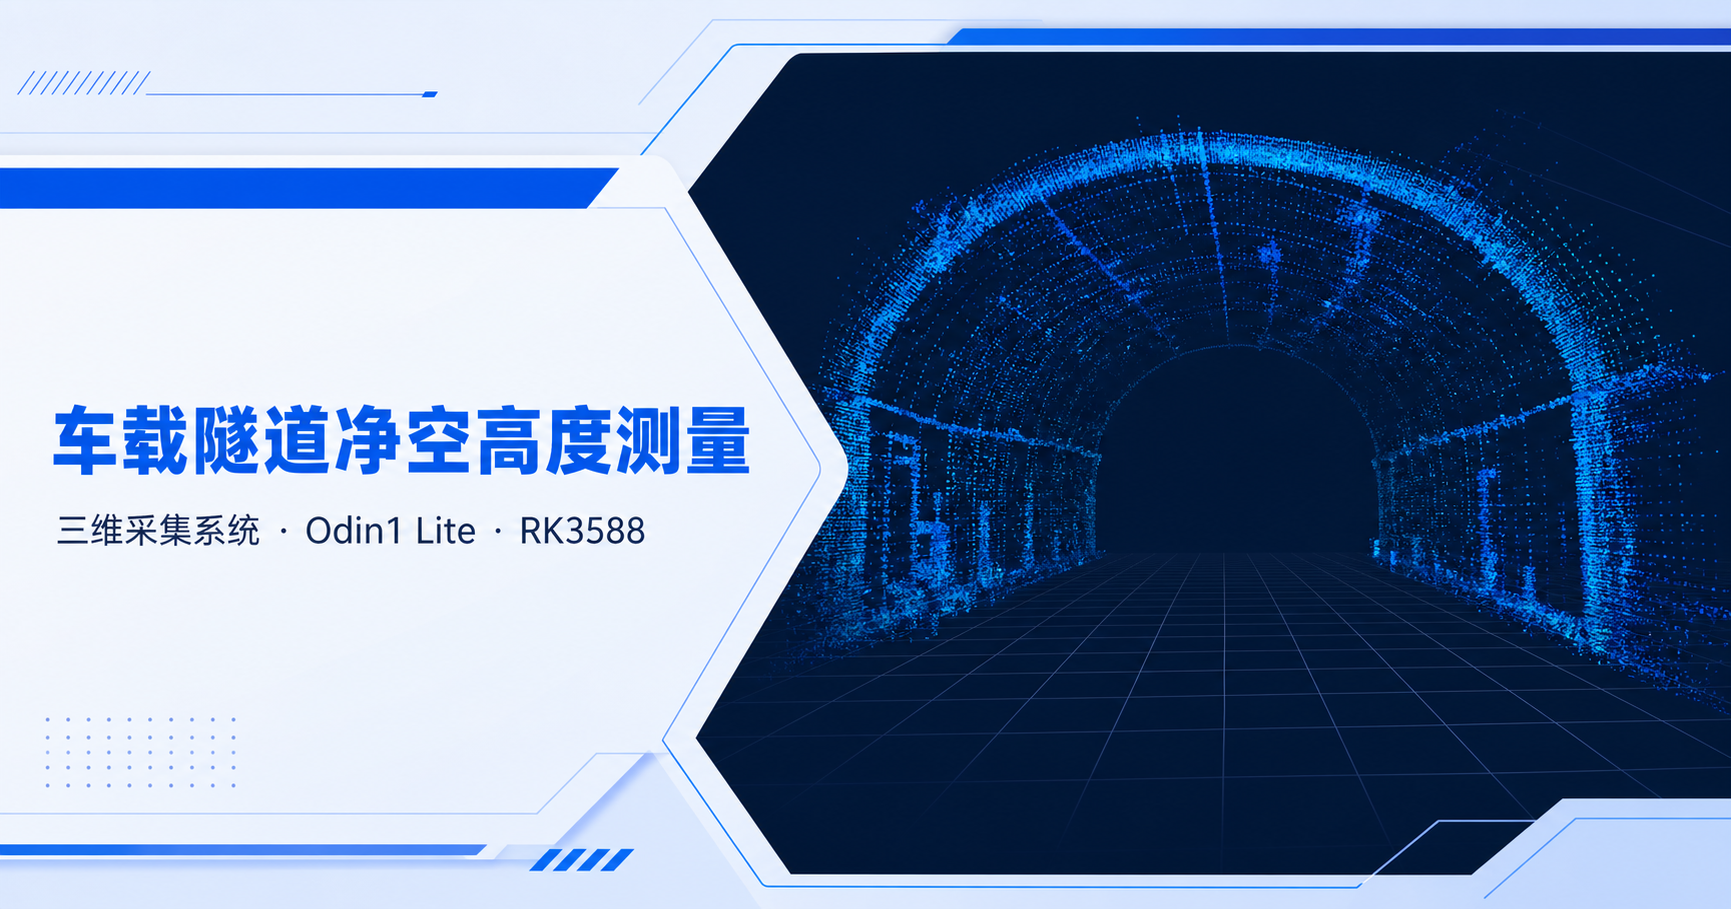
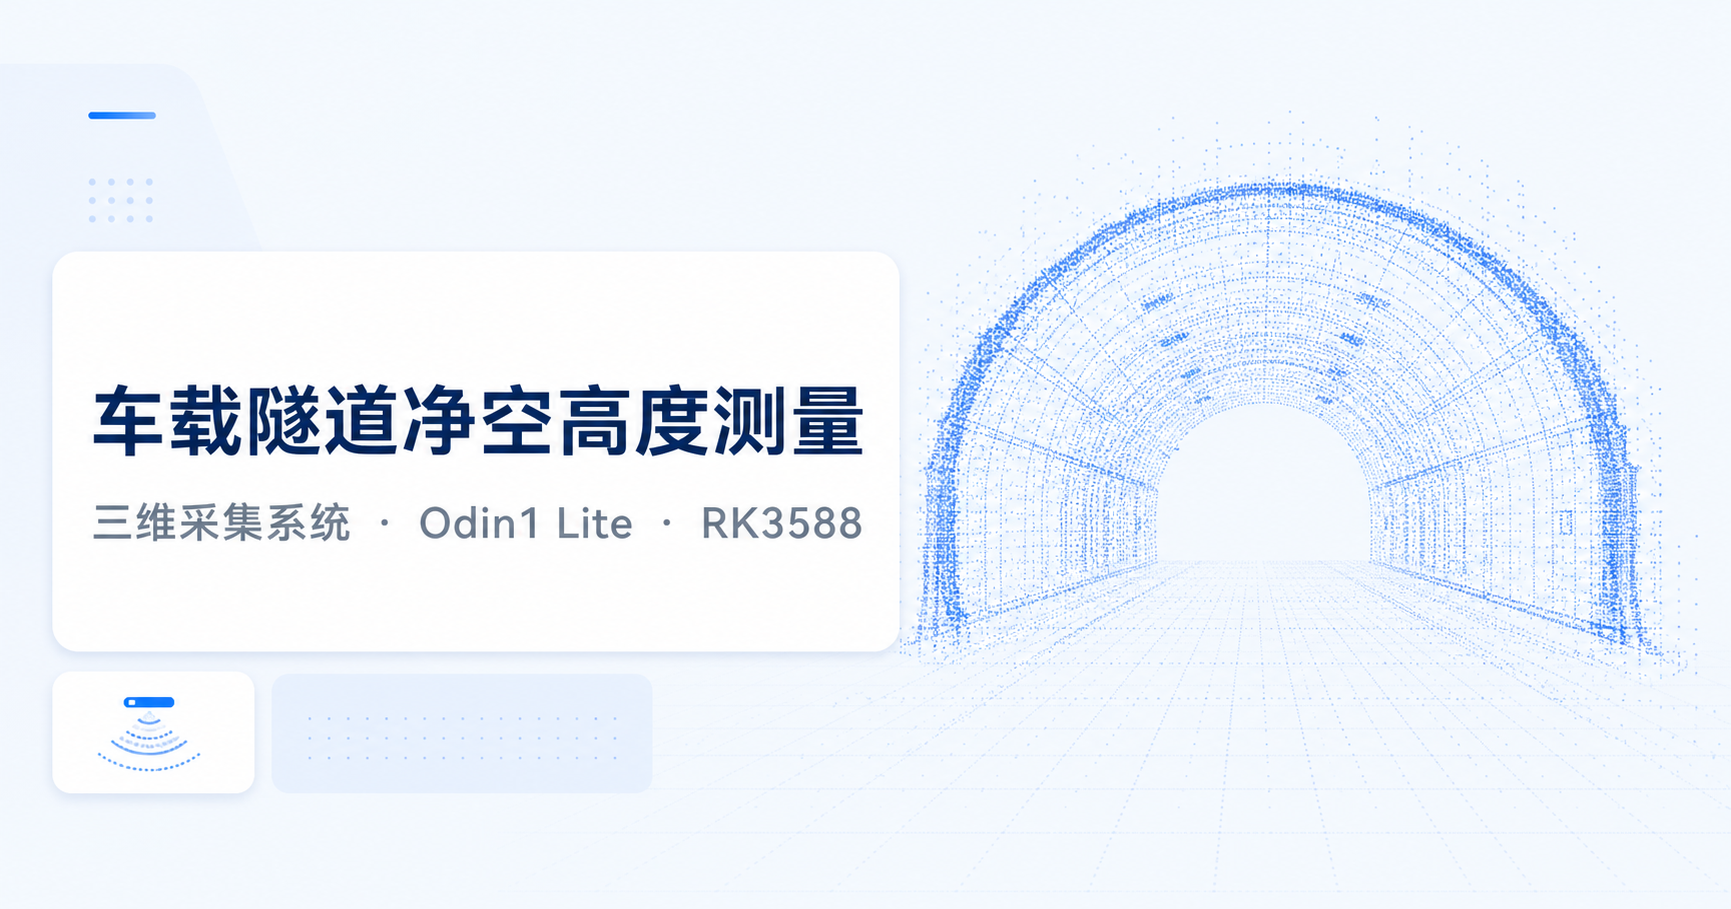
简化采集首页并优化状态交互

diff --git a/frontend/app/globals.css b/frontend/app/globals.css
@@ -190,6 +190,30 @@ main { min-width: 0; }
 
 .page-content { padding: 20px 24px 34px; }
 .page-stack { display: grid; gap: 15px; }
+.dashboard-page { gap: 12px; }
+
+.capture-state-bar {
+  display: grid;
+  grid-template-columns: minmax(330px, 1fr) auto minmax(250px, .7fr);
+  align-items: center;
+  gap: 18px;
+  min-height: 76px;
+  padding: 13px 16px;
+  border: 1px solid #d9e5f8;
+  border-radius: 14px;
+  background: linear-gradient(110deg, #fff 0%, #f5f9ff 100%);
+  box-shadow: 0 8px 24px rgba(34, 56, 92, .045);
+}
+.capture-state-bar__main { display: flex; align-items: center; gap: 12px; min-width: 0; }
+.capture-state-icon { display: grid; flex: 0 0 40px; width: 40px; height: 40px; place-items: center; color: var(--primary); border-radius: 11px; background: var(--primary-light); font-size: 13px; font-weight: 800; }
+.capture-state-bar__main > div { display: grid; gap: 2px; min-width: 0; }
+.capture-state-bar__main span { color: var(--muted); font-size: 11px; }
+.capture-state-bar__main strong { overflow: hidden; font-size: 15px; text-overflow: ellipsis; white-space: nowrap; }
+.capture-state-bar__main small { color: #8793a5; font-size: 11px; }
+.capture-state-bar__signals { display: flex; align-items: center; gap: 7px; }
+.capture-state-bar__signals span { display: inline-flex; align-items: center; gap: 6px; padding: 7px 9px; color: #68768a; border: 1px solid var(--line); border-radius: 999px; background: #fff; font-size: 11px; font-weight: 700; white-space: nowrap; }
+.capture-state-bar__signals i { width: 6px; height: 6px; border-radius: 50%; background: #aab4c3; }
+.capture-state-bar > p { margin: 0; color: #64748b; font-size: 11px; line-height: 1.55; }
 
 .metric-grid {
   display: grid;
@@ -210,6 +234,12 @@ main { min-width: 0; }
   padding: 17px 18px;
   overflow: hidden;
 }
+
+.dashboard-page .metric-grid { gap: 12px; }
+.dashboard-page .metric-card { min-height: 108px; padding: 14px 16px; box-shadow: 0 8px 24px rgba(34, 56, 92, .045); }
+.dashboard-page .metric-card > strong { margin-top: 8px; font-size: 26px; }
+.dashboard-page .metric-card > .metric-card__text-value { font-size: 20px; }
+.dashboard-page .metric-card > p { margin-top: 8px; font-size: 11px; }
 
 .metric-card--primary::after {
   position: absolute;
@@ -256,6 +286,7 @@ input:focus, select:focus { border-color: #79a9ff; box-shadow: 0 0 0 3px rgba(23
 .button-grid { display: grid; grid-template-columns: 1fr 1fr; gap: 7px; margin-top: 11px; }
 .button { min-height: 38px; padding: 9px 14px; color: #44536a; border: 0; border-radius: 9px; background: #edf2f8; font-size: 11px; font-weight: 700; transition: .15s ease; }
 .button:hover { transform: translateY(-1px); filter: brightness(.98); }
+.button:disabled { cursor: not-allowed; opacity: .45; box-shadow: none; transform: none; filter: none; }
 button:focus-visible {
   outline: 3px solid rgba(23, 105, 238, .2);
   outline-offset: 2px;
@@ -336,13 +367,13 @@ th { color: #7f8b9e; background: #fafbfd; font-weight: 600; white-space: nowrap;
 
 .dashboard-layout {
   display: grid;
-  grid-template-columns: minmax(0, 1.5fr) minmax(355px, .64fr);
+  grid-template-columns: minmax(0, 1.68fr) minmax(365px, .72fr);
   align-items: start;
-  gap: 15px;
+  gap: 12px;
 }
 
-.dashboard-main, .dashboard-side { display: grid; gap: 15px; }
-.dashboard-layout .chart { height: 207px; }
+.dashboard-main, .dashboard-side { display: grid; gap: 12px; }
+.dashboard-layout .chart { height: 184px; }
 
 .current-task { overflow: hidden; }
 .task-identity { display: grid; grid-template-columns: 1fr 1fr; gap: 1px; overflow: hidden; border: 1px solid var(--line-soft); border-radius: 10px; background: var(--line-soft); }
@@ -355,8 +386,24 @@ th { color: #7f8b9e; background: #fafbfd; font-weight: 600; white-space: nowrap;
 .progress-track { height: 5px; margin-top: 7px; overflow: hidden; border-radius: 5px; background: #edf1f6; }
 .progress-track i { display: block; width: 0; height: 100%; background: var(--primary); }
 
+.tunnel-markers { display: grid; gap: 9px; margin-top: 12px; padding-top: 12px; border-top: 1px solid var(--line-soft); }
+.tunnel-markers > div:first-child { display: grid; gap: 3px; }
+.tunnel-markers strong { font-size: 12px; }
+.tunnel-markers small { color: var(--muted); font-size: 10px; }
+.tunnel-markers > div:last-child { display: grid; grid-template-columns: 1fr 1fr; gap: 8px; }
+.tunnel-markers .button { min-height: 34px; padding: 7px 10px; font-size: 11px; }
+
 .control-panel .form-grid { gap: 8px; }
 .button-grid--control { margin-top: 10px; }
+.preflight-list { display: grid; overflow: hidden; border: 1px solid var(--line-soft); border-radius: 10px; }
+.preflight-list > div { display: flex; align-items: center; justify-content: space-between; min-height: 35px; padding: 7px 10px; border-bottom: 1px solid var(--line-soft); font-size: 11px; }
+.preflight-list > div:last-child { border-bottom: 0; }
+.preflight-list span { color: #64748b; }
+.preflight-list strong { color: #8a96a7; font-size: 11px; }
+.config-disclosure { margin-top: 10px; border: 1px solid var(--line-soft); border-radius: 9px; background: #fafbfd; }
+.config-disclosure summary { display: flex; align-items: center; justify-content: space-between; gap: 10px; padding: 10px; color: #526177; cursor: pointer; font-size: 11px; font-weight: 700; list-style-position: inside; }
+.config-disclosure summary span { margin-left: auto; color: #8a96a7; font-size: 10px; font-weight: 500; }
+.config-disclosure .form-grid { padding: 0 10px 10px; }
 .switch-row {
   position: relative;
   display: flex;
@@ -383,6 +430,9 @@ th { color: #7f8b9e; background: #fafbfd; font-weight: 600; white-space: nowrap;
 .device-grid > div > span:first-child { display: flex; align-items: center; gap: 6px; overflow: hidden; white-space: nowrap; }
 .device-grid > div > span > i { display: grid; flex: 0 0 22px; width: 22px; height: 22px; place-items: center; color: var(--primary); border-radius: 6px; background: var(--primary-light); font-size: 7px; font-style: normal; font-weight: 800; }
 .device-grid strong { font-size: 8px; }
+.dashboard-side .device-grid { grid-template-columns: 1fr; }
+.dashboard-side .device-grid > div { min-height: 39px; padding: 7px 9px; font-size: 11px; }
+.dashboard-side .device-grid strong { font-size: 11px; }
 
 .alert-grid { display: grid; grid-template-columns: minmax(0, 1.5fr) minmax(355px, .64fr); gap: 15px; }
 .alert-empty { display: flex; align-items: center; gap: 11px; min-height: 67px; padding: 12px; border: 1px dashed #cfe8dc; border-radius: 11px; background: #f8fcfa; }
@@ -394,6 +444,8 @@ th { color: #7f8b9e; background: #fafbfd; font-weight: 600; white-space: nowrap;
 .quick-status > div:last-child > span { display: grid; gap: 7px; padding: 10px; color: var(--muted); border-right: 1px solid var(--line-soft); font-size: 8px; }
 .quick-status > div:last-child > span:last-child { border-right: 0; }
 .quick-status strong { color: var(--text); font-size: 9px; }
+.dashboard-page .alert-empty { border-color: #dce3ec; background: #fafbfd; }
+.dashboard-page .alert-empty > span { color: #7e8b9d; background: #edf1f6; }
 
 .task-overview { display: grid; grid-template-columns: repeat(3, 1fr); gap: 14px; }
 .task-overview > article { display: flex; align-items: center; gap: 13px; min-height: 82px; padding: 15px 17px; border: 1px solid var(--line); border-radius: 15px; background: #fff; box-shadow: var(--shadow); }
@@ -437,20 +489,20 @@ th { color: #7f8b9e; background: #fafbfd; font-weight: 600; white-space: nowrap;
 .cloud-toolbar p { margin: 5px 0 0; color: var(--muted); font-size: 10px; }
 .segmented--small button { min-height: 32px; padding: 6px 10px; }
 .segmented button:disabled { cursor: not-allowed; opacity: .48; }
-.cloud-stage { position: relative; min-height: 704px; overflow: hidden; border: 1px solid #d9e1ec; border-radius: 12px; background: radial-gradient(circle at 50% 45%, #263750, #172235 65%, #111a29); perspective: 650px; }
-.dashboard-cloud-stage { min-height: 428px; }
+.cloud-stage { position: relative; min-height: 704px; overflow: hidden; border: 1px solid #dce4ef; border-radius: 12px; background: radial-gradient(circle at 50% 45%, #fff, #f3f7fc 72%); perspective: 650px; }
+.dashboard-cloud-stage { min-height: 356px; }
 .cloud-canvas-host, .cloud-canvas { position: absolute; inset: 0; width: 100%; height: 100%; }
 .cloud-canvas { display: block; touch-action: none; }
-.cloud-live-badge { position: absolute; z-index: 3; top: 14px; left: 14px; display: flex; align-items: center; gap: 6px; padding: 7px 10px; color: #a9bad0; border: 1px solid rgba(157,182,214,.25); border-radius: 999px; background: rgba(17,27,43,.72); backdrop-filter: blur(8px); font-size: 9px; font-weight: 700; }
+.cloud-live-badge { position: absolute; z-index: 3; top: 14px; left: 14px; display: flex; align-items: center; gap: 6px; padding: 7px 10px; color: #6f7d91; border: 1px solid #dce4ef; border-radius: 999px; background: rgba(255,255,255,.9); backdrop-filter: blur(8px); font-size: 10px; font-weight: 700; box-shadow: 0 4px 12px rgba(44,63,92,.06); }
 .cloud-live-badge i { width: 6px; height: 6px; border-radius: 50%; background: currentColor; }
-.cloud-live-badge--streaming { color: #62dfa9; }
-.cloud-live-badge--degraded { color: #f2c56e; }
-.cloud-live-badge--ros_unavailable { color: #ef7f8e; }
-.cloud-overlay-status { position: absolute; z-index: 2; top: 50%; left: 50%; display: grid; min-width: 250px; justify-items: center; gap: 7px; padding: 18px 22px; color: #a9b9ce; border: 1px solid rgba(135,164,200,.2); border-radius: 13px; background: rgba(17,27,43,.82); text-align: center; transform: translate(-50%, -50%); backdrop-filter: blur(8px); }
-.cloud-overlay-status > span { display: grid; width: 40px; height: 40px; place-items: center; color: #86b7ff; border-radius: 12px; background: rgba(75,139,225,.16); font-size: 23px; }
-.cloud-overlay-status strong { color: #e4edf8; font-size: 12px; }
-.cloud-overlay-status small { color: #93a5bc; font-size: 10px; }
-.cloud-stage__footer { position: absolute; z-index: 3; right: 14px; bottom: 12px; left: 14px; display: flex; justify-content: space-between; gap: 14px; padding: 7px 9px; color: #a9bad0; border: 1px solid rgba(157,182,214,.2); border-radius: 8px; background: rgba(17,27,43,.68); backdrop-filter: blur(8px); font-size: 9px; pointer-events: none; }
+.cloud-live-badge--streaming { color: var(--green); }
+.cloud-live-badge--degraded { color: var(--orange); }
+.cloud-live-badge--ros_unavailable { color: var(--red); }
+.cloud-overlay-status { position: absolute; z-index: 2; top: 50%; left: 50%; display: grid; min-width: 250px; justify-items: center; gap: 7px; padding: 18px 22px; color: #708096; border: 1px solid #dce4ef; border-radius: 13px; background: rgba(255,255,255,.92); text-align: center; transform: translate(-50%, -50%); backdrop-filter: blur(8px); box-shadow: 0 12px 30px rgba(44,63,92,.08); }
+.cloud-overlay-status > span { display: grid; width: 40px; height: 40px; place-items: center; color: var(--primary); border-radius: 12px; background: var(--primary-light); font-size: 23px; }
+.cloud-overlay-status strong { color: #405069; font-size: 12px; }
+.cloud-overlay-status small { color: #8290a3; font-size: 10px; }
+.cloud-stage__footer { position: absolute; z-index: 3; right: 14px; bottom: 12px; left: 14px; display: flex; justify-content: space-between; gap: 14px; padding: 7px 9px; color: #66758a; border: 1px solid #dce4ef; border-radius: 8px; background: rgba(255,255,255,.88); backdrop-filter: blur(8px); font-size: 10px; pointer-events: none; }
 .preview-side { display: grid; gap: 15px; }
 .stat-grid { display: grid; grid-template-columns: 1fr 1fr; gap: 8px; }
 .stat-grid > div { display: grid; gap: 5px; min-height: 69px; padding: 10px; border: 1px solid var(--line-soft); border-radius: 9px; background: #fbfcfe; }
@@ -578,11 +630,13 @@ table {
 
 @media (max-width: 1180px) {
   .metric-grid { grid-template-columns: repeat(2, 1fr); }
+  .capture-state-bar { grid-template-columns: 1fr auto; }
+  .capture-state-bar > p { grid-column: 1 / -1; }
   .dashboard-grid, .preview-grid, .report-grid,
   .dashboard-layout, .alert-grid, .preview-layout, .report-layout { grid-template-columns: 1fr; }
   .task-page-grid { grid-template-columns: 1fr; }
   .cloud-stage { min-height: 570px; }
-  .dashboard-cloud-stage { min-height: 428px; }
+  .dashboard-cloud-stage { min-height: 380px; }
 }
 
 @media (max-width: 760px) {
@@ -597,6 +651,9 @@ table {
   .topbar { align-items: flex-start; min-height: auto; padding: 18px; }
   .topbar__right { display: none; }
   .page-content { padding: 14px; }
+  .capture-state-bar { grid-template-columns: 1fr; gap: 11px; padding: 13px; }
+  .capture-state-bar__signals { flex-wrap: wrap; }
+  .capture-state-bar > p { grid-column: auto; }
   .metric-grid, .form-grid, .task-overview, .task-form, .playback-summary { grid-template-columns: 1fr; }
   .playback-filter, .report-filter { grid-template-columns: 1fr; }
   .task-form fieldset { grid-template-columns: 1fr; }
@@ -606,6 +663,7 @@ table {
   .cloud-toolbar { grid-template-columns: 1fr; }
   .cloud-toolbar .panel-tag { position: absolute; top: 17px; right: 17px; }
   .cloud-stage { min-height: 450px; }
+  .dashboard-cloud-stage { min-height: 340px; }
   .cloud-stage__footer { align-items: flex-start; flex-direction: column; gap: 5px; }
   .data-actions { grid-template-columns: 1fr; }
   .report-content-options { grid-template-columns: 1fr 1fr; }

diff --git a/frontend/app/page.tsx b/frontend/app/page.tsx
@@ -153,12 +153,29 @@ function Dashboard() {
   ];
 
   return (
-    <div className="page-stack">
+    <div className="page-stack dashboard-page">
+      <section className="capture-state-bar" aria-label="采集任务状态">
+        <div className="capture-state-bar__main">
+          <span className="capture-state-icon">待</span>
+          <div>
+            <span>当前任务状态</span>
+            <strong>待机 · 尚未选择检测任务</strong>
+            <small>选择任务并完成设备检查后方可开始采集</small>
+          </div>
+        </div>
+        <div className="capture-state-bar__signals" aria-label="关键链路状态">
+          <span><i />点云未接入</span>
+          <span><i />RTK未接入</span>
+          <span><i />诊断等待中</span>
+        </div>
+        <p>任务由RK3588设备端独立运行，浏览器断开不会终止采集。</p>
+      </section>
+
       <section className="metric-grid">
         <MetricCard label="当前净空高度" value="--" unit="m" hint="等待有效测量结果" icon="H" primary />
         <MetricCard label="任务最低净空" value="--" unit="m" hint="任务开始后自动统计" icon="↓" />
-        <MetricCard label="RTK 定位状态" value="未接入" hint="等待定位质量信息" icon="◎" />
-        <MetricCard label="有效处理帧率" value="--" unit="FPS" hint="Odin1 Lite 点云输入" icon="≈" />
+        <MetricCard label="测量质量" value="无数据" hint="延迟 -- ms · 有效点 -- %" icon="质" />
+        <MetricCard label="RTK 定位质量" value="未定位" hint="解状态 -- · 卫星 -- · HDOP --" icon="◎" />
       </section>
 
       <section className="dashboard-layout">
@@ -167,7 +184,7 @@ function Dashboard() {
             <div className="cloud-toolbar">
               <div>
                 <h2>点云空间预览</h2>
-                <p>Odin1 Lite SLAM世界点云 · 5 Hz预览链路与核心计算隔离</p>
+                <p>Odin1 Lite SLAM世界点云 · 5 Hz轻量预览</p>
               </div>
               <div className="segmented segmented--small" aria-label="点云视角">
                 {modes.map((mode) => (
@@ -183,7 +200,7 @@ function Dashboard() {
                   </button>
                 ))}
               </div>
-              <span className="panel-tag">实时接入</span>
+              <span className="panel-tag panel-tag--muted">预览链路</span>
             </div>
             <PointCloudViewer viewMode={viewMode as PointCloudViewMode} />
           </article>
@@ -220,30 +237,48 @@ function Dashboard() {
               <div><span>任务进度</span><strong>0%</strong></div>
               <div className="progress-track"><i /></div>
             </div>
+            <div className="tunnel-markers">
+              <div>
+                <strong>隧道边界标记</strong>
+                <small>自动判断异常时可由现场人员手动标记</small>
+              </div>
+              <div>
+                <button type="button" className="button button--soft" disabled title="任务开始后可用">标记入口</button>
+                <button type="button" className="button button--soft" disabled title="任务开始后可用">标记出口</button>
+              </div>
+            </div>
           </article>
 
           <article className="panel control-panel">
-            <PanelHead title="采集任务管理" description="测量参数与采集控制" />
-            <div className="form-grid">
-              <label>
-                <span>雷达安装高度 / m</span>
-                <input placeholder="请输入安装高度" inputMode="decimal" />
-              </label>
-              <label>
-                <span>净空高度阈值 / m</span>
-                <input placeholder="请输入报警阈值" inputMode="decimal" />
-              </label>
-              <label className="form-grid__full">
-                <span>测量参数配置</span>
-                <select defaultValue="">
-                  <option value="">请选择参数方案</option>
-                </select>
-              </label>
+            <PanelHead title="采集控制" description="按设备端任务状态开放操作" trailing={<StatusPill>未就绪</StatusPill>} />
+            <div className="preflight-list" aria-label="采集前检查">
+              <div><span>检测任务</span><strong>未选择</strong></div>
+              <div><span>参数方案</span><strong>未确认</strong></div>
+              <div><span>雷达与定位链路</span><strong>等待接入</strong></div>
             </div>
+            <details className="config-disclosure">
+              <summary>查看并确认采集参数 <span>尚未配置</span></summary>
+              <div className="form-grid">
+                <label>
+                  <span>雷达安装高度 / m</span>
+                  <input placeholder="请输入安装高度" inputMode="decimal" />
+                </label>
+                <label>
+                  <span>净空高度阈值 / m</span>
+                  <input placeholder="请输入报警阈值" inputMode="decimal" />
+                </label>
+                <label className="form-grid__full">
+                  <span>测量参数配置</span>
+                  <select defaultValue="">
+                    <option value="">请选择参数方案</option>
+                  </select>
+                </label>
+              </div>
+            </details>
             <div className="button-grid button-grid--control">
-              <button type="button" className="button button--green">初始化并开始</button>
-              <button type="button" className="button button--warning">暂停 / 恢复</button>
-              <button type="button" className="button button--danger button-grid__full">停止采集并保存</button>
+              <button type="button" className="button button--green button-grid__full" disabled title="请选择任务并完成采集前检查">开始采集</button>
+              <button type="button" className="button button--warning" disabled>暂停采集</button>
+              <button type="button" className="button button--danger" disabled>停止并保存</button>
             </div>
             <label className="switch-row">
               <span>
@@ -256,13 +291,12 @@ function Dashboard() {
           </article>
 
           <article className="panel status-panel">
-            <PanelHead title="设备状态" description="现场设备与数据链路" />
+            <PanelHead title="设备与数据链路" description="状态变化和数据新鲜度" />
             <div className="device-grid">
               <div><span><i>雷</i>Odin1 Lite</span><StatusPill>等待接入</StatusPill></div>
               <div><span><i>RTK</i>RTK 定位</span><StatusPill>等待接入</StatusPill></div>
-              <div><span><i>控</i>主控状态</span><StatusPill>等待接入</StatusPill></div>
-              <div><span><i>存</i>存储状态</span><strong>--</strong></div>
-              <div><span><i>温</i>设备温度</span><strong>-- ℃</strong></div>
+              <div><span><i>控</i>RK3588主控</span><StatusPill>等待接入</StatusPill></div>
+              <div><span><i>存</i>存储与温度</span><strong>-- GB · -- ℃</strong></div>
             </div>
           </article>
         </div>
@@ -271,13 +305,13 @@ function Dashboard() {
       <section className="alert-grid">
         <article className="panel">
           <PanelHead
-            title="异常报警提示"
-            description="净空阈值与设备异常集中显示"
-            trailing={<StatusPill tone="ok">当前无报警</StatusPill>}
+            title="异常与操作提示"
+            description="仅在诊断数据有效时确认系统正常"
+            trailing={<StatusPill>等待系统诊断</StatusPill>}
           />
           <div className="alert-empty">
-            <span>✓</span>
-            <div><strong>系统暂无报警信息</strong><small>出现高度阈值或设备异常时将在此提示</small></div>
+            <span>…</span>
+            <div><strong>诊断链路尚未接入</strong><small>接入后将在此显示净空阈值、设备异常及处理建议</small></div>
           </div>
         </article>
         <article className="panel quick-status">

diff --git a/frontend/components/point-cloud/PointCloudViewer.tsx b/frontend/components/point-cloud/PointCloudViewer.tsx
@@ -79,8 +79,8 @@ export default function PointCloudViewer({
       host.appendChild(renderer.domElement);
 
       const scene = new THREE.Scene();
-      scene.background = new THREE.Color(0x111a29);
-      scene.fog = new THREE.FogExp2(0x111a29, 0.012);
+      scene.background = new THREE.Color(0xf5f8fc);
+      scene.fog = new THREE.FogExp2(0xf5f8fc, 0.01);
 
       const perspectiveCamera = new THREE.PerspectiveCamera(48, 1, 0.01, 2_000);
       perspectiveCamera.up.set(0, 0, 1);
@@ -99,7 +99,7 @@ export default function PointCloudViewer({
       geometry.setDrawRange(0, 0);
 
       const material = new THREE.PointsMaterial({
-        color: 0x63b3ff,
+        color: 0x1769ee,
         size: 0.045,
         sizeAttenuation: true,
         transparent: true,
@@ -108,10 +108,10 @@ export default function PointCloudViewer({
       const points = new THREE.Points(geometry, material);
       scene.add(points);
 
-      const grid = new THREE.GridHelper(100, 100, 0x3f628c, 0x263b57);
+      const grid = new THREE.GridHelper(100, 100, 0x9fb8d8, 0xd8e2ef);
       grid.rotation.x = Math.PI / 2;
       grid.material.transparent = true;
-      grid.material.opacity = 0.55;
+      grid.material.opacity = 0.68;
       scene.add(grid);
       scene.add(new THREE.AxesHelper(1.5));
 
